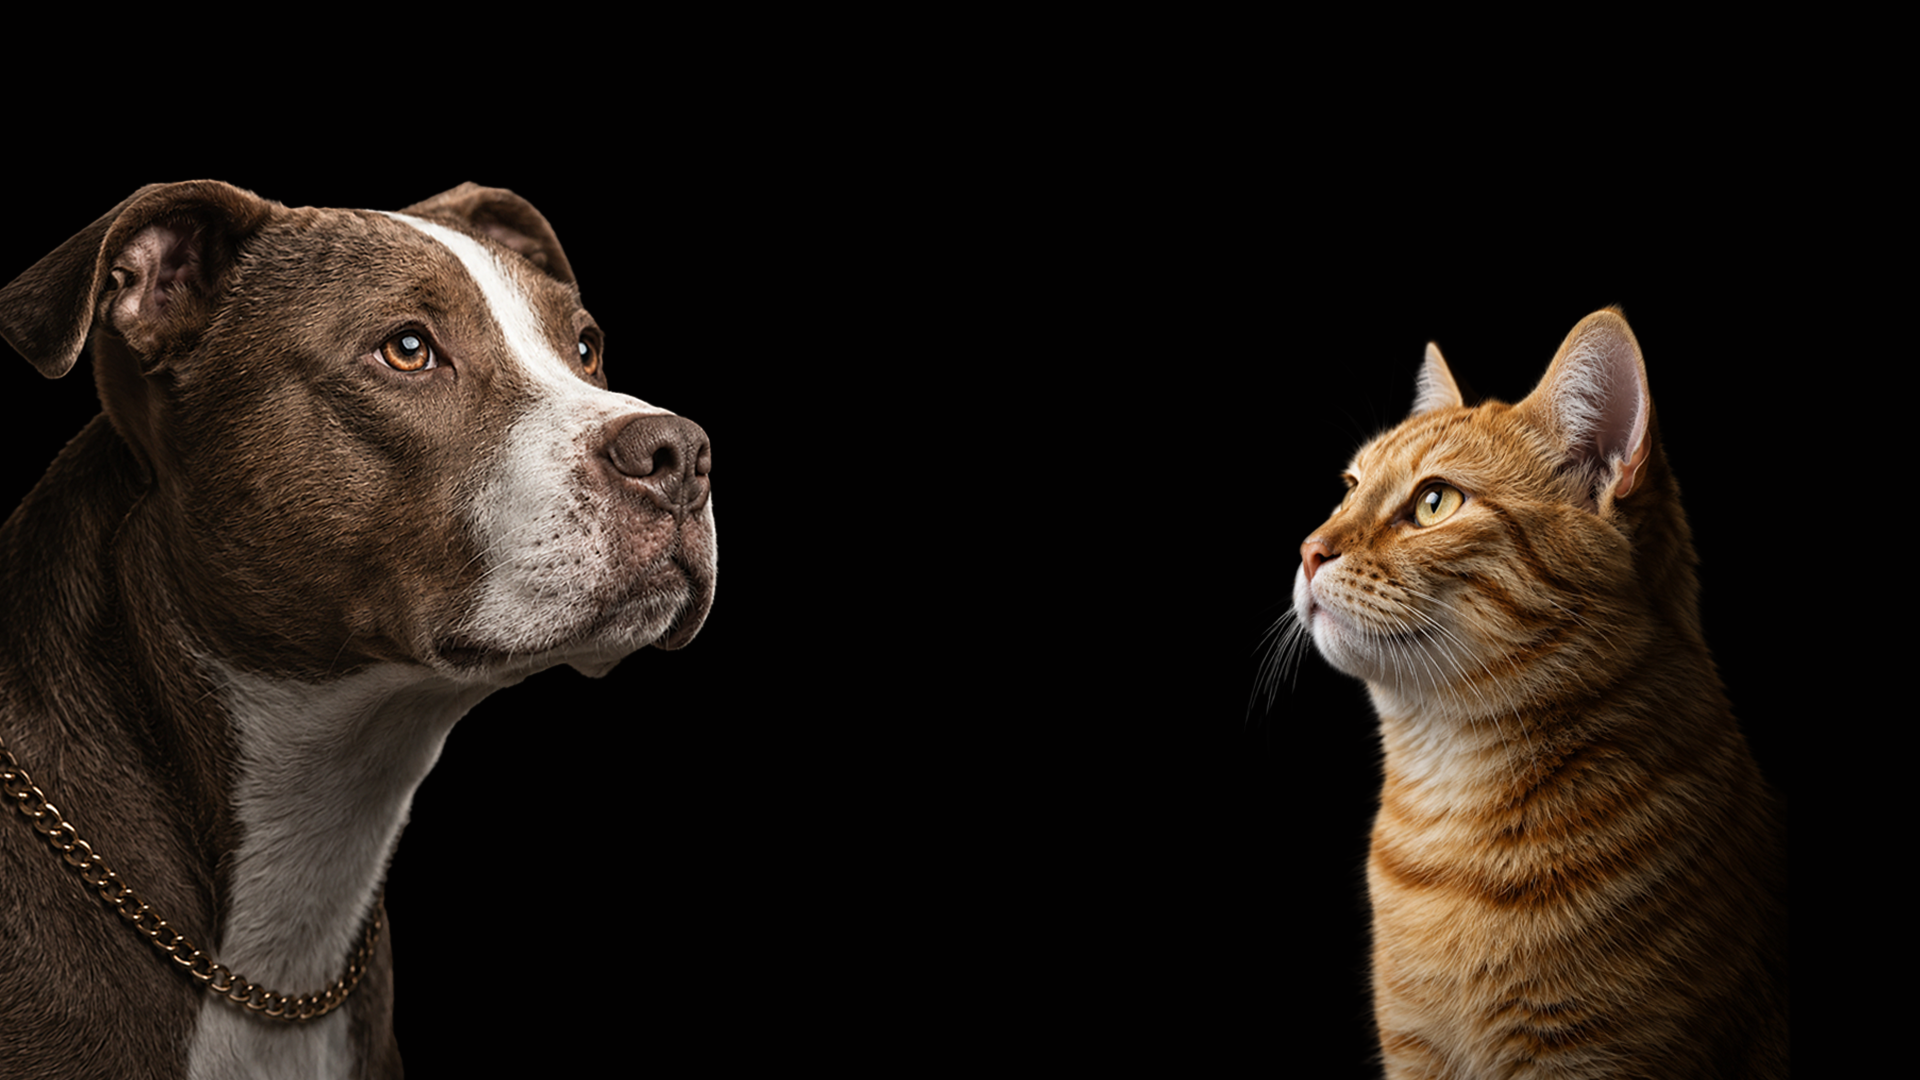
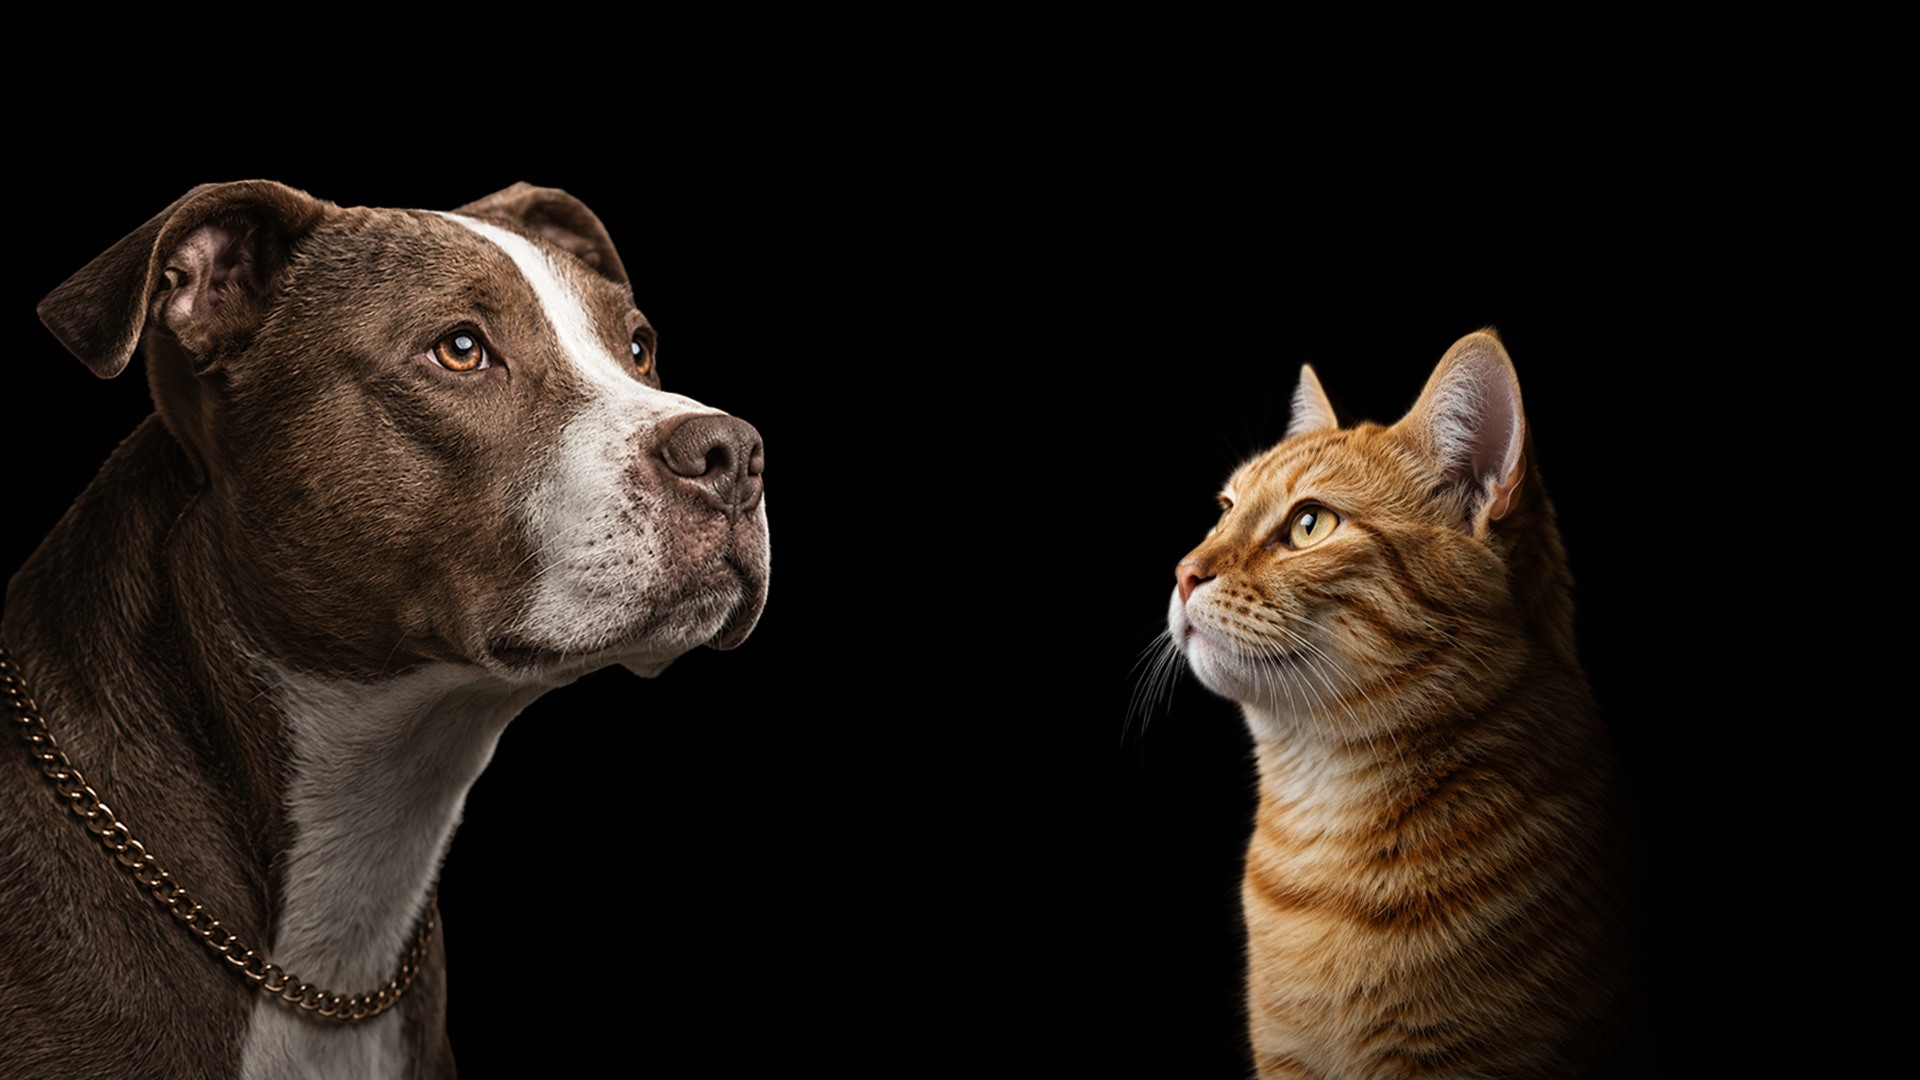
hero index final2

Changed region(s): [[0.0, 0.1528, 0.4062, 1.0], [0.5938, 0.275, 0.9062, 1.0], [0.0, 0.4278, 0.0312, 0.4889]]

diff --git a/index.html b/index.html
@@ -39,12 +39,7 @@
 						<!-- Hero / Intro real -->
 <article id="intro">
 	<h2 class="major">ZOOX Pet Studio</h2>
-<span class="image main">
-<picture>
-		<source media="(max-width: 736px)" srcset="/assets/img/hero-zooxvertical.png">
-		<img src="/assets/img/hero-zoox.png" alt="ZOOX Pet Studio" />
-	</picture>
-</span>
+<span class="image main"><img src="/assets/img/hero-zoox.png" alt="ZOOX Pet Studio" /></span>
 	<p><strong>ZOOX Pet Studio</strong> nació en 2021 con la misión de crear recuerdos únicos de las mascotas de las familias. Ofrecemos sesiones fotográficas profesionales y personalizadas, con un estilo moderno que resalta la personalidad y las características de cada ejemplar.</p>
 </article>
 

diff --git a/assets/css/main.css b/assets/css/main.css
@@ -1138,7 +1138,7 @@ input, select, textarea {
 			-webkit-transition-delay: 0.75s;
 			-ms-transition-delay: 0.75s;
 			transition-delay: 0.75s;
-			background-image: linear-gradient(to top, rgba(19, 21, 25, 0.5), rgba(19, 21, 25, 0.5)), url("../../images/overlay.png");
+			background-image: linear-gradient(to top, rgba(19, 21, 25, 0.4), rgba(19, 21, 25, 0.4)), url("../../images/overlay.png");
 			background-size: auto,
  256px 256px;
 			background-position: center,
